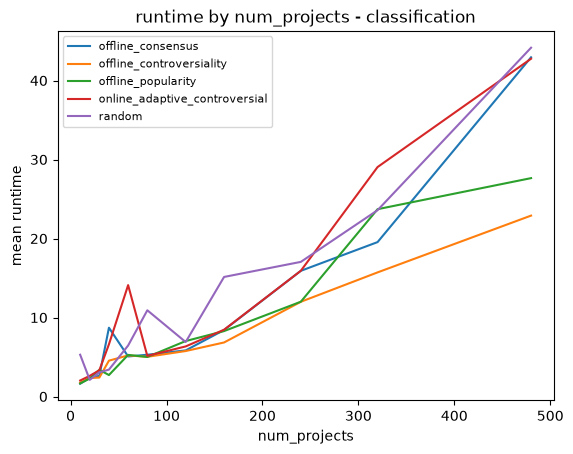
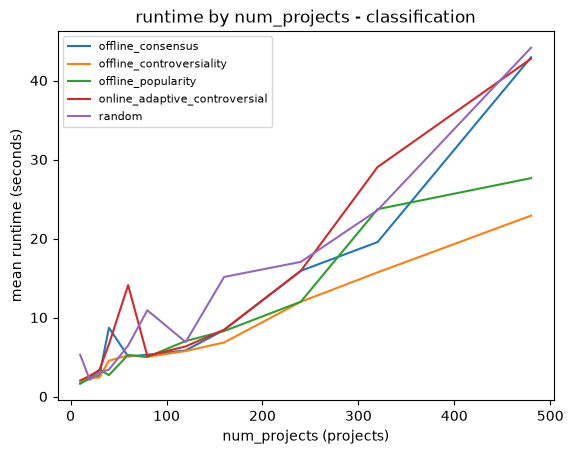
Label the graph axes with their units
The axis labels were bare column names - "mean runtime" with no
(seconds). plot_csv now appends each field's unit from a small UNITS
table, and all 17 graphs are regenerated with the labeled axes.

Changed region(s): [[0.0, 0.2775, 0.0593, 0.6476], [0.3857, 0.9251, 0.6824, 0.9868]]

diff --git a/experiments/compare_setups.py b/experiments/compare_setups.py
@@ -221,6 +221,28 @@ def sweep_voters() -> experiments_csv.Experiment:
 #: The measurements plotted against each size axis.
 PLOTTED = ("runtime", "f1", "fractional_allocation", "symmetric_distance")
 
+#: Units for the axis labels, keyed by column name. Columns absent here are
+#: dimensionless scores.
+UNITS = {
+    "runtime": "seconds",
+    "pipeline_runtime": "seconds",
+    "f1": "score in [0, 1]",
+    "precision": "score in [0, 1]",
+    "recall": "score in [0, 1]",
+    "fractional_allocation": "fraction of the budget, in [0, 1]",
+    "symmetric_distance": "number of projects",
+    "num_projects": "projects",
+    "num_voters": "voters",
+    "sample_degree": "fraction of all votes collected",
+    "lv_degree": "fraction of collected votes from full ballots",
+}
+
+
+def _label(field: str, prefix: str = "") -> str:
+    """The axis label for ``field``: its name, plus its unit when it has one."""
+    unit = UNITS.get(field)
+    return f"{prefix}{field} ({unit})" if unit else f"{prefix}{field}"
+
 
 def plot_csv(csv_path: str, x_field: str, y_field: str, z_field: str,
              save_to: str, where: dict | None = None,
@@ -247,8 +269,8 @@ def plot_csv(csv_path: str, x_field: str, y_field: str, z_field: str,
     plt.figure()
     experiments_csv.plot_dataframe(plt, frame, x_field, y_field, z_field, mean=True)
     plt.legend(prop={"size": 8})
-    plt.xlabel(x_field)
-    plt.ylabel(f"mean {y_field}")
+    plt.xlabel(_label(x_field))
+    plt.ylabel(_label(y_field, prefix="mean "))
     plt.title(title or f"{y_field} by {x_field}")
     plt.savefig(save_to, bbox_inches="tight")
     plt.close()
